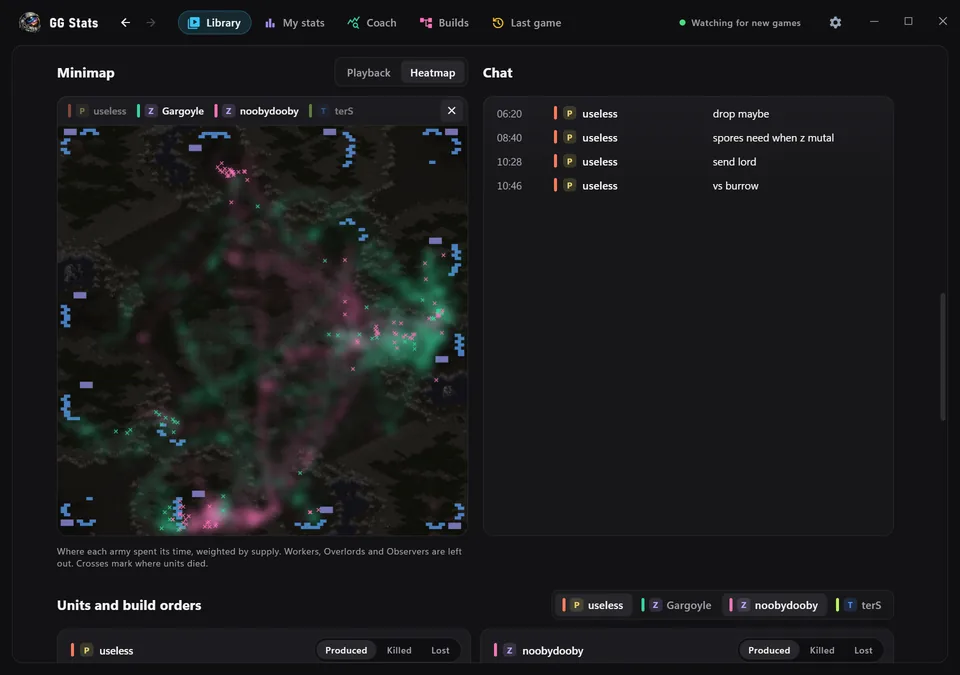
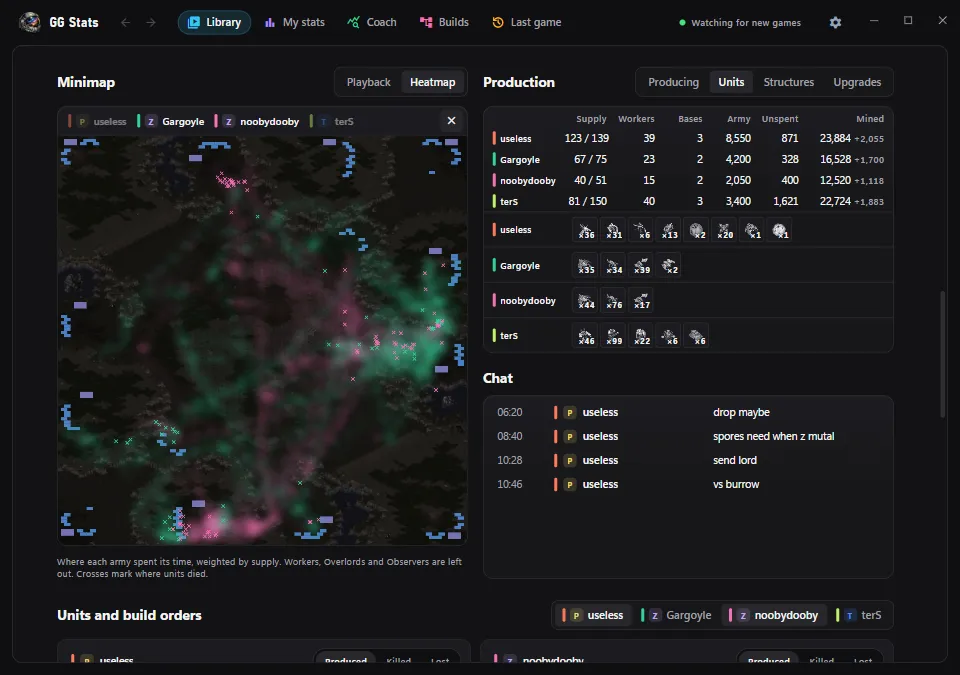
Retake the minimap and heatmap screenshots.
They show the new production box. The minimap shot is taken mid game.

diff --git a/site/index.html b/site/index.html
@@ -430,7 +430,7 @@
           fetchpriority="low"
           decoding="async"
           aria-hidden="true"
-          alt="The game playing out on its minimap, with the chat beside it." />
+          alt="The game playing out on its minimap, with what each player is producing and the chat beside it." />
         <img
           src="shots/heatmap.webp"
           srcset="shots/heatmap-960.webp 960w, shots/heatmap.webp 1920w"
